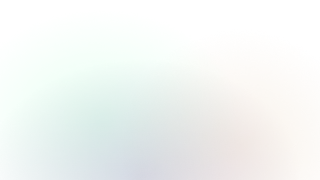
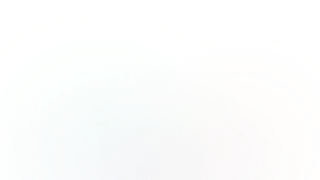
fix: color theme and performance (images optimized)

Changed region(s): [[0.2188, 0.5833, 0.625, 1.0]]

diff --git a/lib/core/theme/theme_colors.dart b/lib/core/theme/theme_colors.dart
@@ -19,7 +19,7 @@ class _DarkColors {
   static const Color warning = AppColors.warning;
   static const Color error = AppColors.error;
 
-  static const Color primary = AppColors.primary;
+  static const Color primary = AppColors.primaryDark;
   static const Color primaryGradientStart = AppColors.primaryGradientStart;
   static const Color primaryGradientEnd = AppColors.primaryGradientEnd;
   static const List<Color> primaryGradientColors = [primaryGradientStart, primaryGradientEnd];
@@ -54,7 +54,7 @@ class _LightColors {
   static const Color warning = AppColors.warning;
   static const Color error = AppColors.error;
 
-  static const Color primary = AppColors.primary;
+  static const Color primary = AppColors.primaryLight;
   static const Color primaryGradientStart = AppColors.primaryGradientStart;
   static const Color primaryGradientEnd = AppColors.primaryGradientEnd;
   static const List<Color> primaryGradientColors = [primaryGradientStart, primaryGradientEnd];

diff --git a/lib/core/gen/colors.gen.dart b/lib/core/gen/colors.gen.dart
@@ -66,13 +66,16 @@ class AppColors {
   static const Color onBackgroundLight = Color(0xFF080708);
 
   /// Color: #59FFA0
-  static const Color primary = Color(0xFF59FFA0);
+  static const Color primaryDark = Color(0xFF59FFA0);
 
   /// Color: #24FF82
   static const Color primaryGradientEnd = Color(0xFF24FF82);
 
   /// Color: #CCFFE2
   static const Color primaryGradientStart = Color(0xFFCCFFE2);
+
+  /// Color: #3CCF8E
+  static const Color primaryLight = Color(0xFF3CCF8E);
 
   /// Color: #593C8F
   static const Color secondary = Color(0xFF593C8F);

diff --git a/lib/presentation/screens/home/presentation/widgets/contact/contact.dart b/lib/presentation/screens/home/presentation/widgets/contact/contact.dart
@@ -14,7 +14,6 @@ class _Contact extends StatelessWidget {
             decoration: BoxDecoration(
               image: DecorationImage(
                 fit: BoxFit.cover,
-                opacity: context.isDarkTheme ? .5 : 1,
                 image: context.dependsOnTheme(
                   dark: Assets.images.backgrounds.contactsBackground.dark.provider(),
                   light: Assets.images.backgrounds.contactsBackground.light.provider(),
